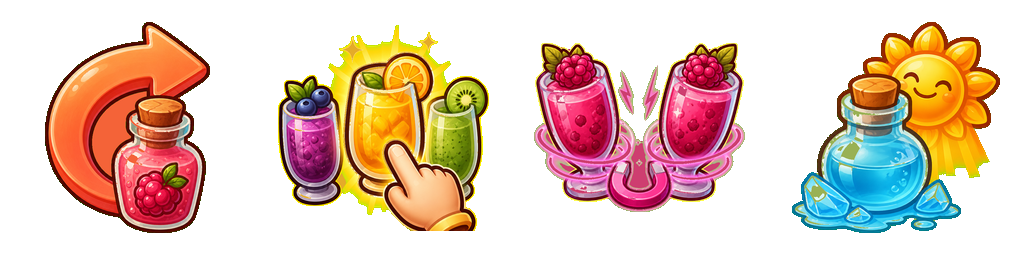
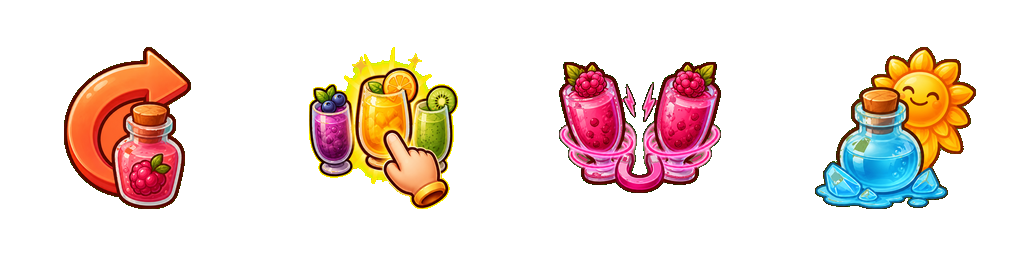
Polish powerup HUD and menu island, refresh Jumin art.

diff --git a/index.html b/index.html
@@ -779,8 +779,11 @@
     ctx.restore();
   }
 
-  function drawPowerupIcon(index, x, y, size, alpha = 1) {
+  function drawPowerupIcon(index, x, y, size, alpha = 1, grey = false) {
+    ctx.save();
+    if (grey) ctx.filter = "grayscale(1) brightness(0.82)";
     drawSprite(images.powerups, 4, 1, index, 0, x - size / 2, y - size / 2, size, size, alpha);
+    ctx.restore();
   }
 
   function drawJumin(x, y, size = 120, pose = 0) {
@@ -1363,28 +1366,40 @@
     addButton("shop", 16, 22, 74, 82, () => { shopReturnScreen = "menu"; screen = "shop"; });
   }
 
+  function drawMenuIsland() {
+    for (let i = 0; i < STATIONS.length; i++) {
+      const p = mapSite(i);
+      const unlocked = save.unlocked[i];
+      drawMapBuilding(i, save.levels[i], p, unlocked ? 1 : 0.52);
+    }
+    drawSeagull(seagullPose());
+  }
+
   function drawMenu() {
     drawMapBackdrop(true);
-    ctx.fillStyle = "rgba(5,73,83,.22)";
-    ctx.fillRect(0,0,W,H);
+    drawMenuIsland();
+    const topFade = ctx.createLinearGradient(0, 0, 0, 340);
+    topFade.addColorStop(0, "rgba(8,70,80,.58)");
+    topFade.addColorStop(1, "rgba(8,70,80,0)");
+    ctx.fillStyle = topFade;
+    ctx.fillRect(0, 0, W, 340);
+    const bottomFade = ctx.createLinearGradient(0, 640, 0, H);
+    bottomFade.addColorStop(0, "rgba(8,70,80,0)");
+    bottomFade.addColorStop(1, "rgba(8,70,80,.52)");
+    ctx.fillStyle = bottomFade;
+    ctx.fillRect(0, 640, W, H - 640);
     drawMenuChrome();
-    const bob = Math.sin(time*1.8)*6;
+    const bob = Math.sin(time * 1.8) * 5;
     ctx.save();
-    ctx.translate(0,bob);
-    shadowText("JUM JUM", 360, 168, 58, "#fff7c8");
-    shadowText("ISLAND", 360, 238, 88, "#ffd24c");
-    rounded(170, 292, 380, 44, 22, "rgba(38,139,125,.94)", "#fff8df", 4);
-    text("FAMOUS FOR JUM JUM BERRIES", 360, 315, 18, "#fff8df");
+    ctx.translate(0, bob);
+    shadowText("JUM JUM", 360, 150, 56, "#fff7c8");
+    shadowText("ISLAND", 360, 216, 84, "#ffd24c");
+    rounded(170, 268, 380, 42, 21, "rgba(38,139,125,.94)", "#fff8df", 4);
+    text("FAMOUS FOR JUM JUM BERRIES", 360, 290, 17, "#fff8df");
     ctx.restore();
-    drawBuilding(0, 5, 360, 470+bob, 250);
-    drawJumin(230, 560+bob, 150, Math.floor(time * 0.7) % 2 === 0 ? 0 : 1);
-    drawPersonShadow(500, 602+bob, 76, .18);
-    drawAnimatedPerson(1, Math.floor(time*1.4+.7)%2, 500, 600+bob, 80, 134, 1, true);
-    rounded(168, 640+bob, 184, 34, 17, "rgba(255,249,223,.95)", "#f47d63", 3);
-    text("GUIDE JUMIN", 260, 658+bob, 15, "#71472e");
 
     const cards = [
-      { id: "play", label: "PLAY", color: "#f47d63", icon: 0, y: 700, action: () => {
+      { id: "play", label: "PLAY", color: "#f47d63", icon: 0, y: 760, action: () => {
         screen = "map";
         if (!save.welcomed) {
           save.welcomed = true;
@@ -1411,22 +1426,22 @@
           persist();
         }
       }},
-      { id: "scores", label: "HIGH SCORE", color: "#e6ad32", icon: 1, y: 820, action: () => { screen = "scores"; } },
-      { id: "achievements", label: "ACHIEVEMENTS", color: "#3eb1d0", icon: 2, y: 940, action: () => { screen = "achievements"; } }
+      { id: "scores", label: "HIGH SCORE", color: "#e6ad32", icon: 1, y: 870, action: () => { screen = "scores"; } },
+      { id: "achievements", label: "ACHIEVEMENTS", color: "#3eb1d0", icon: 2, y: 980, action: () => { screen = "achievements"; } }
     ];
     for (const card of cards) {
       const down = pressedButton === card.id;
       ctx.save();
       ctx.translate(0, down ? 3 : 0);
-      rounded(110, card.y, 500, 96, 32, "rgba(255,249,223,.97)", card.color, 5);
-      drawMenuIcon(card.icon, 188, card.y+48, 78);
-      text(card.label, 390, card.y+52, 34, "#59392d", "center", 900);
+      rounded(110, card.y, 500, 88, 30, "rgba(255,249,223,.96)", card.color, 5);
+      drawMenuIcon(card.icon, 188, card.y + 44, 70);
+      text(card.label, 390, card.y + 48, 32, "#59392d", "center", 900);
       ctx.restore();
-      addButton(card.id, 110, card.y, 500, 96, card.action, true);
+      addButton(card.id, 110, card.y, 500, 88, card.action, true);
     }
-    rounded(210, 1088, 300, 48, 24, "rgba(255,249,223,.94)", "#e6ad32", 3);
-    text(`BEST  ${formatNumber(save.highScore)}`, 360, 1113, 20, "#71472e");
-    text("Slide. Match. Serve. With Jumin.", 360, 1188, 18, "#fff8df", "center", 700);
+    rounded(210, 1098, 300, 44, 22, "rgba(255,249,223,.94)", "#e6ad32", 3);
+    text(`BEST  ${formatNumber(save.highScore)}`, 360, 1121, 19, "#71472e");
+    text("Slide. Match. Serve. Restore the island.", 360, 1194, 17, "#fff8df", "center", 700);
   }
 
   function drawSubmenuHeader(title, backId) {
@@ -1975,15 +1990,15 @@
     persist();
   }
 
-  function maybeGrantPowerup(chance = .14) {
-    if (deterministic.next() > chance) return;
+  function maybeGrantPowerup(chance = .2) {
+    if (Math.random() > chance) return;
     const weights = [
       ["skip", 3],
-      ["choose", 1],
-      ["magnet", 2],
-      ["thaw", game && game.pieces.some(p => p.frozen) ? 4 : 1]
+      ["choose", 1.4],
+      ["magnet", 2.2],
+      ["thaw", game && game.pieces.some(p => p.frozen) ? 4.5 : 1.2]
     ];
-    let roll = deterministic.next() * weights.reduce((sum, entry) => sum + entry[1], 0);
+    let roll = Math.random() * weights.reduce((sum, entry) => sum + entry[1], 0);
     for (const [id, weight] of weights) {
       roll -= weight;
       if (roll <= 0) {
@@ -2148,6 +2163,7 @@
     mergeBursts = [];
     powerupFx = [];
     screen = "play";
+    maybeGrantPowerup(0.4);
     persist();
   }
 
@@ -2315,8 +2331,9 @@
     addScore((newTier+1)*125*Math.max(1,game.combo),x,y-68);
     save.coins += bonus;
     game.shiftCoins += bonus;
-    if (game.combo === 3 || game.combo === 6) maybeGrantPowerup(0.55);
-    else if (game.combo > 1) maybeGrantPowerup(0.08);
+    if (game.combo === 3 || game.combo === 6) maybeGrantPowerup(0.72);
+    else if (game.combo > 1) maybeGrantPowerup(0.16);
+    else maybeGrantPowerup(0.05);
     if (game.station === 0 && game.combo >= 3) {
       const sun = 22 * game.combo;
       save.coins += sun;
@@ -2561,7 +2578,7 @@
     floatText(`ORDER +${reward}`, 470, 300, "#fff4ae", 28);
     game.shelf = [];
     game.serving = null;
-    maybeGrantPowerup(0.28);
+    maybeGrantPowerup(0.42);
     refreshAchievements(true);
     if (game.ordersThisShift >= game.goal) {
       finishShift();
@@ -2584,7 +2601,7 @@
     save.bestShiftScores[game.station] = Math.max(save.bestShiftScores[game.station],game.score);
     updateUnlocks();
     refreshAchievements(true);
-    maybeGrantPowerup(0.65);
+    maybeGrantPowerup(0.85);
     modal = {
       type: "shift",
       title: "SHIFT COMPLETE!",
@@ -2861,27 +2878,58 @@
   }
 
   function drawPowerupBar() {
-    const actions = [
-      { id: "skip", fn: useSkipPowerup },
-      { id: "choose", fn: useChoosePowerup },
-      { id: "magnet", fn: useMagnetPowerup },
-      { id: "thaw", fn: useThawPowerup }
+    const slots = [
+      { id: "skip", fn: useSkipPowerup, x: 54, y: 330 },
+      { id: "choose", fn: useChoosePowerup, x: 54, y: 440 },
+      { id: "magnet", fn: useMagnetPowerup, x: 666, y: 330 },
+      { id: "thaw", fn: useThawPowerup, x: 666, y: 440 }
     ];
-    for (let i = 0; i < actions.length; i++) {
-      const entry = POWERUPS[i];
-      const x = 48 + i * 168;
-      const y = 196;
+    for (const slot of slots) {
+      const entry = POWERUPS.find(item => item.id === slot.id);
       const count = powerupCount(entry.id);
+      const available = count > 0;
       const active = entry.id === "magnet" && (game.magnetCharges|0) > 0;
       const selecting = entry.id === "choose" && game.chooseMode;
-      rounded(x, y, 156, 58, 22, selecting || active ? "#fff1af" : "rgba(255,248,223,.94)", entry.color, selecting || active ? 5 : 3);
-      drawPowerupIcon(entry.icon, x + 30, y + 29, 44, count > 0 ? 1 : .35);
-      text(entry.name.split(" ")[0].toUpperCase(), x + 92, y + 22, 13, "#7b5b4e");
-      text(`×${count}`, x + 92, y + 42, 18, count > 0 ? "#59392d" : "#a9a29a");
-      addButton("powerup"+entry.id, x, y, 156, 58, actions[i].fn, !game.tutorial && !game.serving && !game.missionDone);
+      const pulse = available ? 0.55 + Math.sin(time * 4.5 + slot.y * 0.02) * 0.2 : 0;
+      ctx.save();
+      if (available || active || selecting) {
+        const glow = ctx.createRadialGradient(slot.x, slot.y, 6, slot.x, slot.y, 52);
+        const glowColor = selecting || active ? "#ffe08a" : entry.color;
+        glow.addColorStop(0, glowColor);
+        glow.addColorStop(1, "rgba(255,255,255,0)");
+        ctx.globalAlpha = pulse;
+        ctx.fillStyle = glow;
+        ctx.beginPath();
+        ctx.arc(slot.x, slot.y, 52, 0, TAU);
+        ctx.fill();
+      }
+      ctx.restore();
+      ctx.save();
+      ctx.globalAlpha = pressedButton === "powerup" + entry.id ? 0.78 : 1;
+      ctx.beginPath();
+      ctx.arc(slot.x, slot.y, 38, 0, TAU);
+      ctx.fillStyle = available || active || selecting ? "rgba(255,248,223,.96)" : "rgba(170,168,160,.72)";
+      ctx.fill();
+      ctx.lineWidth = active || selecting ? 5 : 3;
+      ctx.strokeStyle = available || active || selecting ? entry.color : "#8c8780";
+      ctx.stroke();
+      drawPowerupIcon(entry.icon, slot.x, slot.y, 58, available ? 1 : 0.55, !available);
+      const badgeR = 14;
+      const bx = slot.x + 22;
+      const by = slot.y + 22;
+      ctx.beginPath();
+      ctx.arc(bx, by, badgeR, 0, TAU);
+      ctx.fillStyle = available ? entry.color : "#9a9690";
+      ctx.fill();
+      ctx.lineWidth = 2;
+      ctx.strokeStyle = "#fff8df";
+      ctx.stroke();
+      text(String(count), bx, by + 1, 15, "#fff8df");
+      ctx.restore();
+      addButton("powerup" + entry.id, slot.x - 42, slot.y - 42, 84, 84, slot.fn, !game.tutorial && !game.serving && !game.missionDone);
     }
     if ((game.magnetCharges|0) > 0) {
-      text("MAGNET ARMED", 360, 270, 14, "#d45a9a");
+      text("MAGNET ARMED", 360, 288, 14, "#d45a9a");
     }
   }
 
